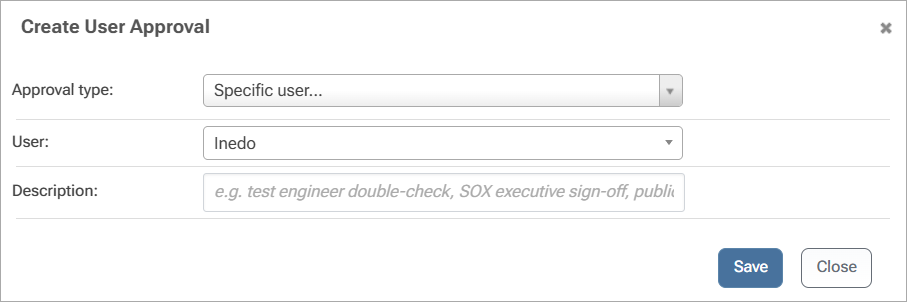
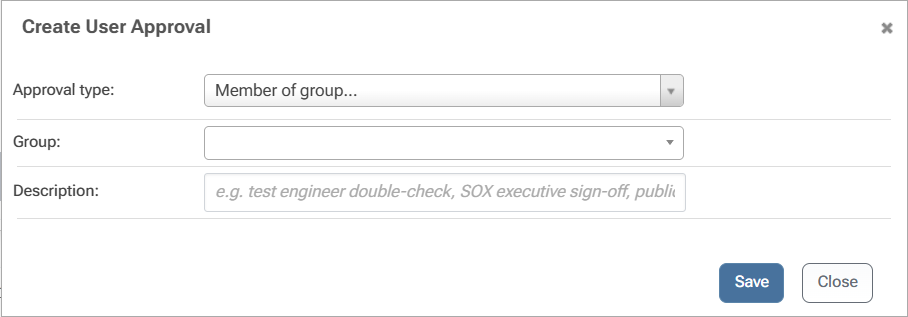
user approvals (#621)
* updated
* Revised user approval configuration instructions

Updated instructions

---------

diff --git a/Content/BuildMaster/deployment-continuous-delivery/automated-testing-verification-automatic-manual-approvals/buildmaster-ci-cd-testing-and-verification-approvals-user-approvals.md b/Content/BuildMaster/deployment-continuous-delivery/automated-testing-verification-automatic-manual-approvals/buildmaster-ci-cd-testing-and-verification-approvals-user-approvals.md
@@ -3,9 +3,40 @@ title: "User Approvals"
 order: 1
 ---
 
-There are two types of manual approvals: user and group. A user-based approval can only be entered by the specified user, whereas a group-based approval can be entered by any members of the specified group. You can also specify that more than one member of a particular group must approve a build before deploying to a stage.
+User approvals require one or more people to approve a build before it can be deployed to a stage. They are added to a pipeline stage as a stage requirement.
 
-In either case, when a user approves a build, the following is recorded:
+There are two types of manual approvals:
+
+* **User approvals:** A user-based approval can only be entered by the specified user.
+* **Group approvals:** A group-based approval can be entered by any members of the specified group. You can also specify that more than one member of a particular group must approve a build before deploying to a stage.
+
+## Configuring User Approvals
+
+You can create a User Approval by selecting "view pipeline" on the Build Overview tab, and selecting "Add a stage requirement" under a pipeline stage.
+
+![Pipeline Stages](/resources/docs/BuildMaster-PipelineStagesv2.png){height="" width="70%"}
+
+Then select "Add Manual Approval" under the Stage Requirement Check window to set up the user approval.
+
+![User Approval](/resources/docs/BuildMaster-Pipeline-StageRequirement-UserApproval.png){height="" width="70%"}
+
+Make sure to select "Commit Changes" at the top of the pipeline page to create the user approval. 
+
+When a user approval is needed at a stage of a release, you will see it under "Manual Approvals" when navigating to "Builds" > "Build Overview".
+
+![User Approval](/resources/docs/BuildMaster-Pipeline-DeployBuild-force.png){height="" width="70%"}
+
+## Forcing a Build Past an Approval
+
+A build may be forced to a stage even if it has not received the required approval. When a build requires an approval, the build will show as blocked. To force a build past an approval, navigate to the build's page, select the blocked build, and select "force".
+
+![Force User Approval](/resources/docs/BuildMaster-Pipeline-DeployBuild-forcedeployment.png){height="" width="70%"}
+
+Note that you can leave a comment if needed when forcing the build.
+
+## Approval Records and Revocation
+
+When a user approves a build, the following is recorded:
 
 * User's Name
 * Group name (if group-based)
@@ -14,4 +45,13 @@ In either case, when a user approves a build, the following is recorded:
 * User Comments
 * Date/Time
 
-Users may revoke a manual approval they've given, provided that the build wasn't already deployed to the target stage.
+Users may revoke a manual approval they've given, provided that the build wasn't already deployed to the target stage
+
+
+
+
+
+
+
+
+  
